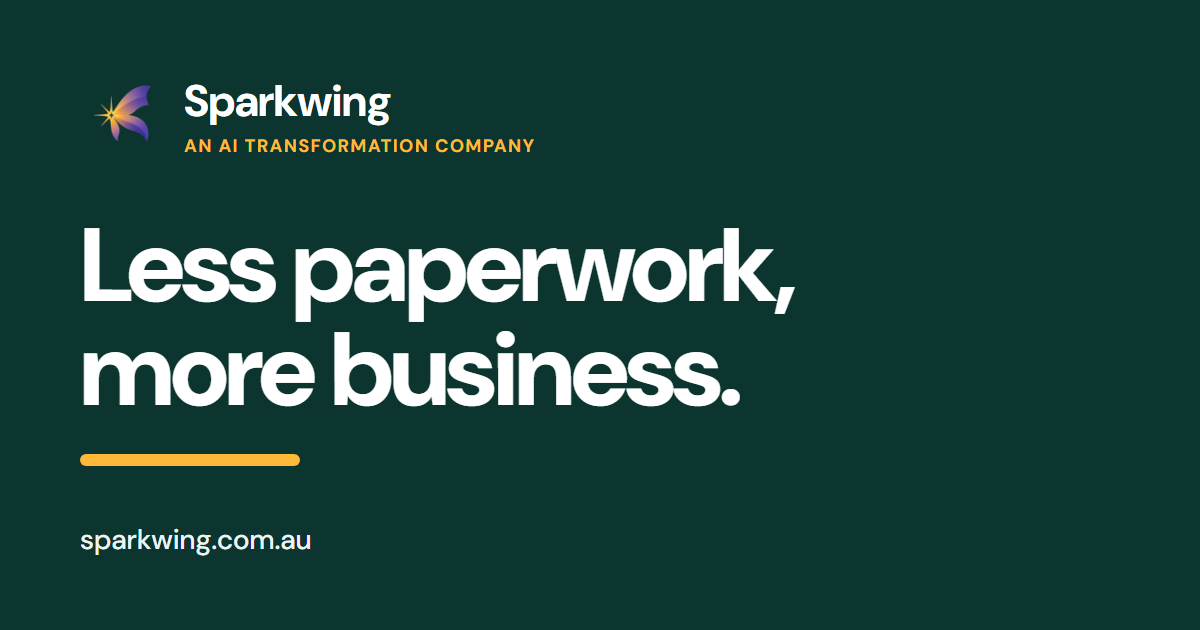
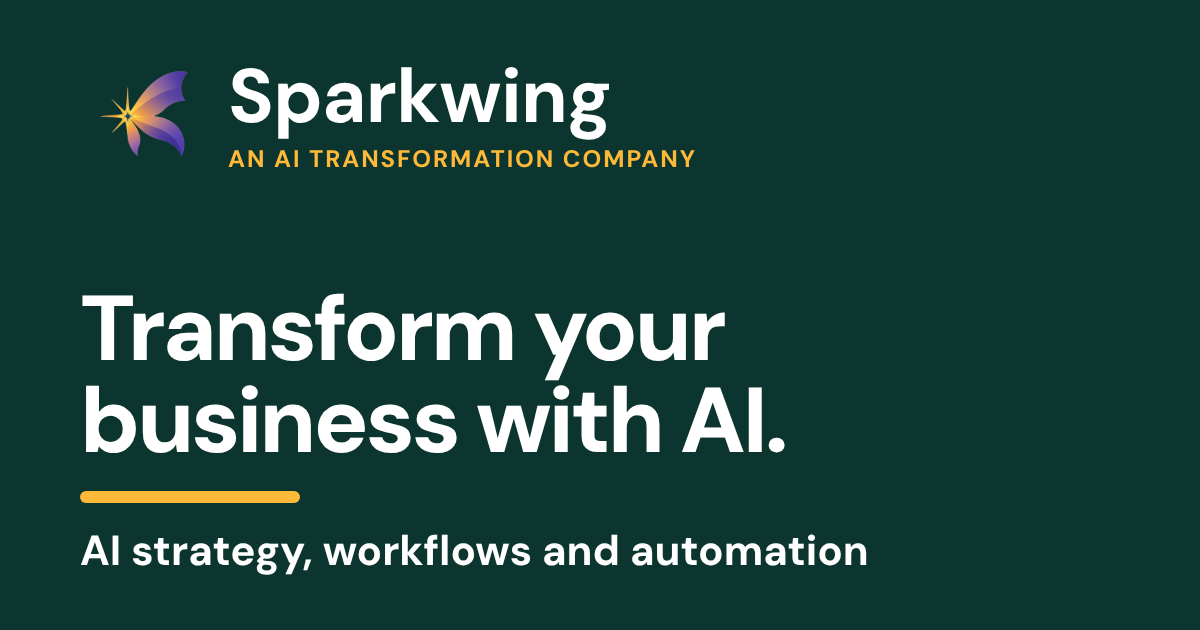
Aim search titles and the share image at terms people use (#13)
Claude-Session: https://claude.ai/code/session_01FuuQBUjBtmfmEzM7AQwr7L

Changed region(s): [[0.0617, 0.3619, 0.6783, 0.8143], [0.0617, 0.0905, 0.5858, 0.2714], [0.0617, 0.8444, 0.74, 0.9349]]

diff --git a/tests/pages.spec.ts b/tests/pages.spec.ts
@@ -208,12 +208,12 @@ test.describe('Review fixes', () => {
 
   test('title, description, Open Graph and Twitter tags match the requirements table', async ({ page }) => {
     const rows: Record<string, [string, string]> = {
-      '/': ['Sparkwing: AI transformation and strategy for business', 'We help businesses in Australia and the Philippines transform how they work with AI: a clear strategy, the right tools, a ready team and safe rules.'],
+      '/': ['Sparkwing: AI strategy, workflows and automation', 'AI strategy, AI workflows, AI automation, custom AI apps and training for businesses in Australia and the Philippines. Book a discovery call.'],
       '/sparkkeeper': ['Sparkkeeper: AI for bookkeeping and client records', 'Your numbers and clients in one place, alongside your accounting software and registered books. Ask Sparky, upload paperwork, create reports.'],
-      '/spark-studio': ['Spark Studio: AI strategy, consulting and custom AI agents', 'AI strategy and consulting from Sydney-based Sparkwing. We find where AI will help most, build your plan, set it up and train your people.'],
+      '/spark-studio': ['AI strategy and consulting, custom AI agents: Spark Studio', 'AI consulting from Sydney. AI strategy, AI systems, custom AI apps and AI agents, built around your business, for Australia and the Philippines.'],
       '/trust': ['AI governance built in: how Sparkwing keeps AI trustworthy', 'Hive, AI Crew and Control Tower sit under every Sparkwing app, with rules, records and masking designed in.'],
       '/bring-ai-in': ['AI automation for small business: save hours, Sparkwing', 'AI automation for small and growing businesses in Australia and the Philippines. Clear the manual work first, then add more. No IT team needed.'],
-      '/scale-ai': ['AI transformation for your whole team, Sparkwing', 'Bring your whole team along with AI: a clear strategy, rules and records, training, and apps people keep using. Built for teams that show their work.'],
+      '/scale-ai': ['AI governance and training for your team, Sparkwing', 'AI strategy, AI governance and AI training for your whole team, with rules and records in place. Built for organisations that need to show their work.'],
       '/sparkkeeper/beta': ['Apply for the free Sparkkeeper beta, Sparkwing', 'Full Sparkkeeper features free for one month, with AI credits included and top-ups on request. Limited seats. See what to expect and apply.'],
     };
     for (const [route, [title, description]] of Object.entries(rows)) {

diff --git a/src/config/site.ts b/src/config/site.ts
@@ -21,7 +21,7 @@ export const site = {
     path: '/assets/og-image.png',
     width: 1200,
     height: 630,
-    alt: 'Sparkwing: less paperwork, more business.',
+    alt: 'Sparkwing: transform your business with AI. AI strategy, workflows and automation.',
   },
   logoPath: '/assets/sparkwing-mark.png',
   /** Sparkkeeper login. Launch blocker: confirm the address before launch. Override with PUBLIC_APP_URL. */

diff --git a/docs/website/REQUIREMENTS.md b/docs/website/REQUIREMENTS.md
@@ -29,15 +29,15 @@ Screens in the bundle are at `design/screens/<Page>-<width>.png`, at widths 1440
 
 | Route | Page | Canvas boards | Screens | Purpose |
 | --- | --- | --- | --- | --- |
-| `/` | Sparkwing: AI transformation and strategy for business | We help businesses in Australia and the Philippines transform how they work with AI: a clear strategy, the right tools, a ready team and safe rules. |
+| `/` | Sparkwing: AI strategy, workflows and automation | AI strategy, AI workflows, AI automation, custom AI apps and training for businesses in Australia and the Philippines. Book a discovery call. |
 | `/sparkkeeper` | Sparkkeeper | Sparkkeeper, SparkkeeperMedium, SparkkeeperCompact | `Sparkkeeper-*.png` | Product detail, scope, beta |
 | `/apps/magnet` | Magnet: AI for leads and follow-ups, Sparkwing | Catch enquiries and follow them up. When a lead says yes, they become a client in Sparkkeeper. Coming soon. |
 | `/apps/academy` | Academy | Apps (Academy tab) | Same template | Coming soon app |
 | `/apps/nest` | Nest | Apps (Nest tab) | Same template | Coming soon app |
-| `/spark-studio` | Spark Studio: AI strategy, consulting and custom AI agents | AI strategy and consulting from Sydney-based Sparkwing. We find where AI will help most, build your plan, set it up and train your people. |
+| `/spark-studio` | AI strategy and consulting, custom AI agents: Spark Studio | AI consulting from Sydney. AI strategy, AI systems, custom AI apps and AI agents, built around your business, for Australia and the Philippines. |
 | `/trust` | Trust and base platform | Platform, PlatformMedium, PlatformCompact | `Platform-*.png` | Hive, AI Crew, Control Tower, masking, who manages |
 | `/bring-ai-in` | AI automation for small business: save hours, Sparkwing | AI automation for small and growing businesses in Australia and the Philippines. Clear the manual work first, then add more. No IT team needed. |
-| `/scale-ai` | AI transformation for your whole team, Sparkwing | Bring your whole team along with AI: a clear strategy, rules and records, training, and apps people keep using. Built for teams that show their work. |
+| `/scale-ai` | AI governance and training for your team, Sparkwing | AI strategy, AI governance and AI training for your whole team, with rules and records in place. Built for organisations that need to show their work. |
 | `/privacy` | Privacy policy | Privacy, PrivacyMedium, PrivacyCompact | `Privacy-*.png` | Legal. Don't reword |
 | `/terms` | Terms of use | Terms, TermsMedium, TermsCompact | `Terms-*.png` | Legal. Don't reword |
 | `/sparkkeeper/beta` | Beta application | Beta, BetaMedium, BetaCompact | `Beta-*.png` | Form on the left, what to expect on the right, FAQ below |
